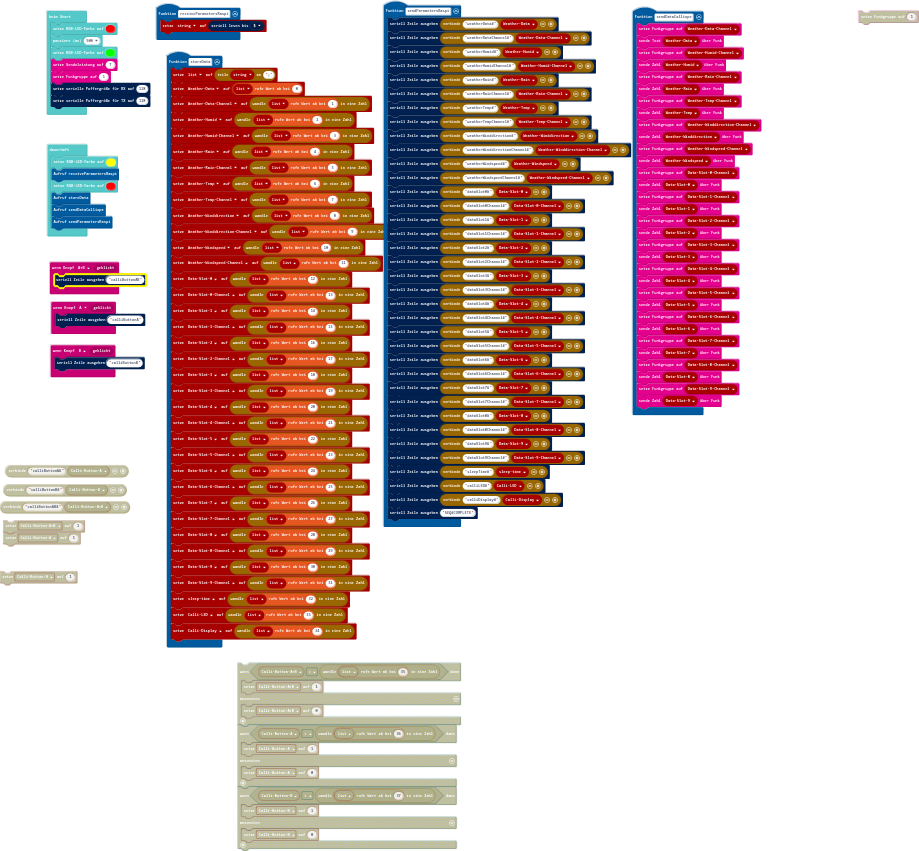
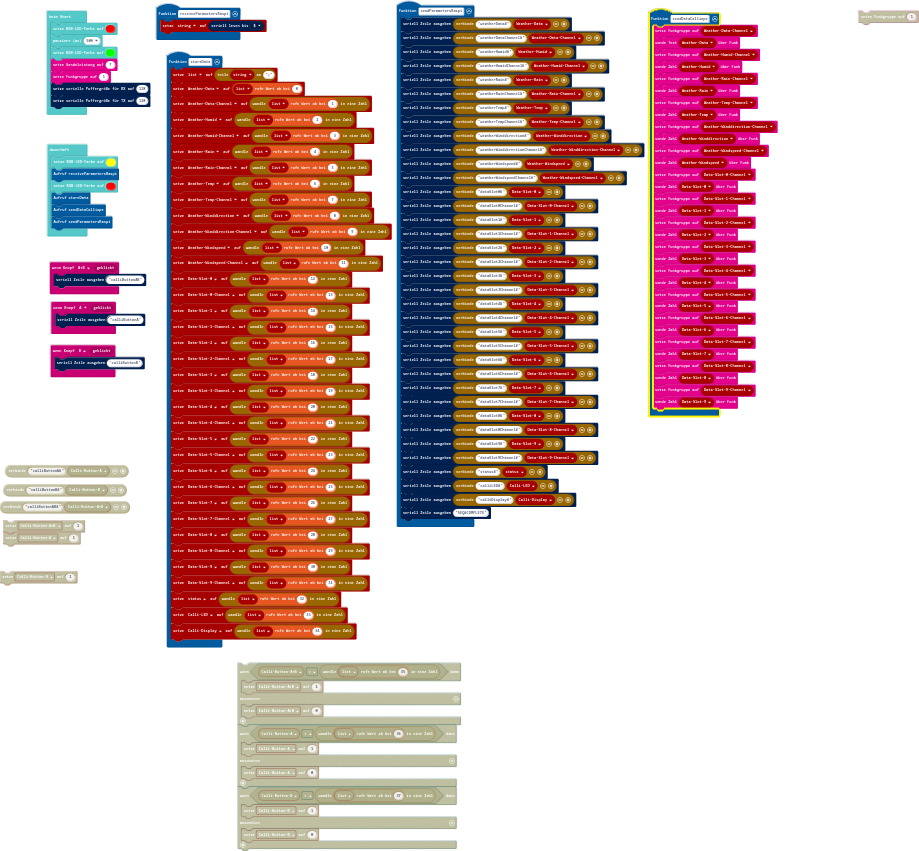
Aktualisiere main.blocks, main.ts

Changed region(s): [[0.3961, 0.0, 0.8531, 0.6416], [0.2437, 0.6722, 0.3961, 0.7333], [0.0609, 0.3055, 0.1523, 0.3361]]

diff --git a/main.ts b/main.ts
@@ -34,7 +34,7 @@ function sendParametersRaspi () {
     serial.writeLine("dataSlot8Channel#" + DataSlot8Channel)
     serial.writeLine("dataSlot9#" + DataSlot9)
     serial.writeLine("dataSlot9Channel#" + DataSlot9Channel)
-    serial.writeLine("sleepTime#" + sleeptime)
+    serial.writeLine("status#" + status)
     serial.writeLine("calliLED#" + CalliLED)
     serial.writeLine("calliDisplay#" + CalliDisplay)
     serial.writeLine("SEQ#COMPLETE")
@@ -119,7 +119,7 @@ function storeData () {
     DataSlot8Channel = parseFloat(list[29])
     DataSlot9 = parseFloat(list[30])
     DataSlot9Channel = parseFloat(list[31])
-    sleeptime = parseFloat(list[32])
+    status = parseFloat(list[32])
     CalliLED = parseFloat(list[33])
     CalliDisplay = parseFloat(list[34])
 }
@@ -127,7 +127,7 @@ let list: string[] = []
 let string = ""
 let CalliDisplay = 0
 let CalliLED = 0
-let sleeptime = 0
+let status = 0
 let DataSlot9Channel = 0
 let DataSlot9 = 0
 let DataSlot8Channel = 0
